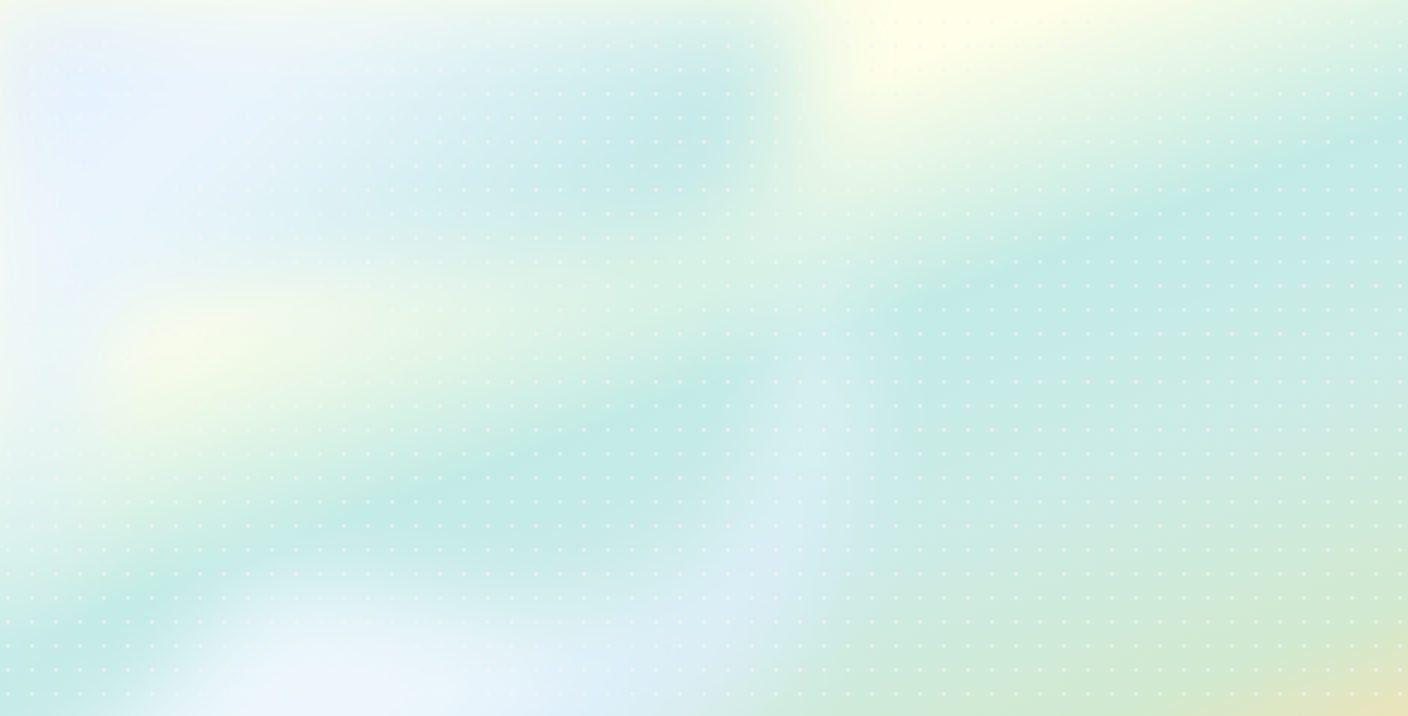
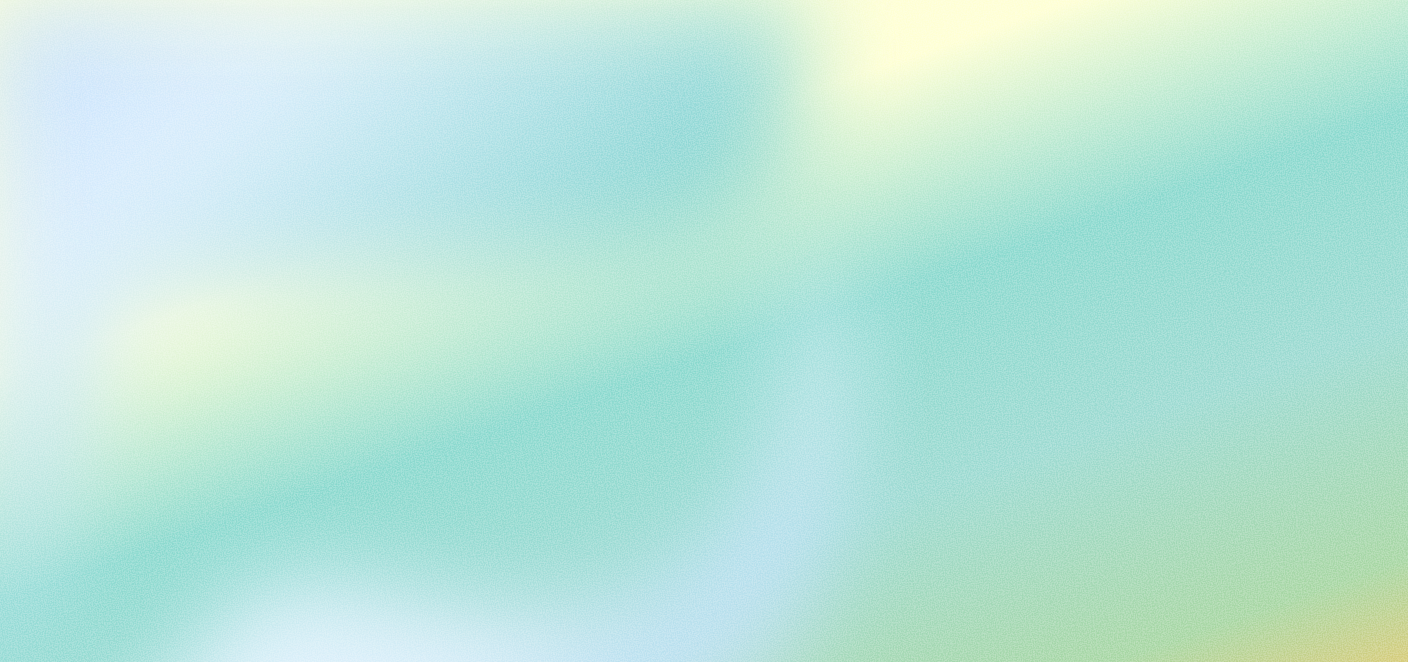
Update header and footer images

diff --git a/src/Footer.css b/src/Footer.css
@@ -6,6 +6,12 @@
   border-radius: 10px;
 }
 
+@media all and (max-width: 500px) {
+  .footer {
+    background-image:  url('./images/Footer-mobile.png');
+  }
+}
+
 .footer-content {
   padding: 70px 40px;
   margin: auto;
